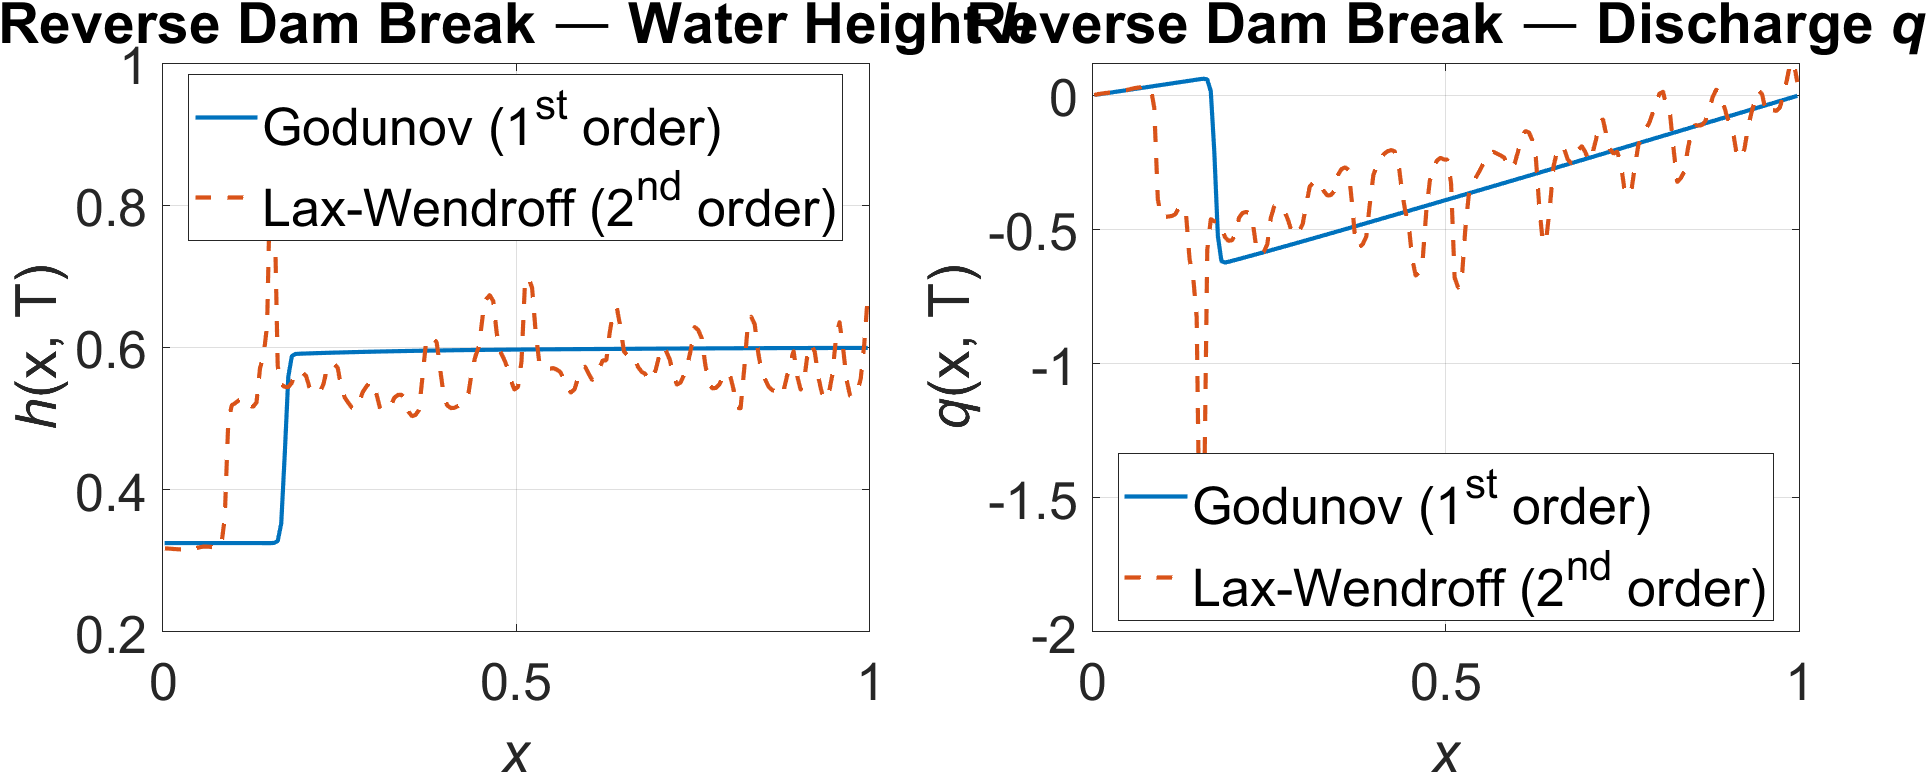
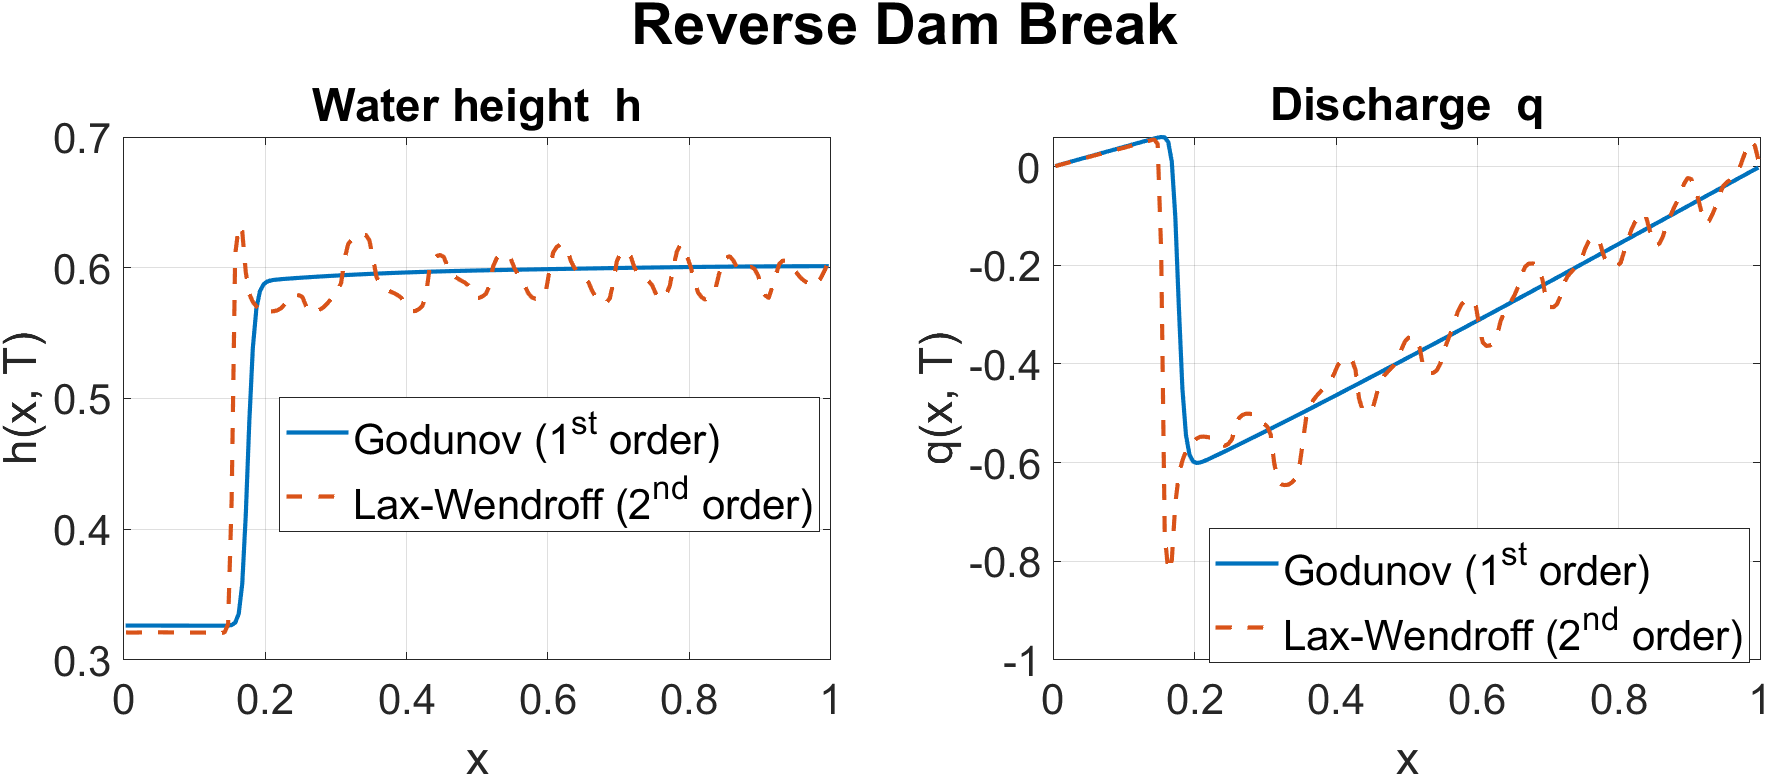
terzo output

diff --git a/Homeworks/HW3/Codes/RunMainFVM.m b/Homeworks/HW3/Codes/RunMainFVM.m
@@ -15,16 +15,17 @@ clear; close all; clc;
 addpath Solvers
 
 %==========================================================================
-% OUTPUT DIRECTORY — images go directly into the report tree
+% OUTPUT DIRECTORY
 %==========================================================================
 out_dir = 'Output';
 if ~exist(out_dir, 'dir'), mkdir(out_dir); end
 
 %==========================================================================
-% GLOBAL STYLE — edit ONLY here, never inside solver files
+% GLOBAL STYLE — edit ONLY here
 %==========================================================================
-fs  = 25;           % axis/tick/legend font size
-fst = 30;           % title font size
+fs  = 20;           % axis/tick/legend font size
+fst = 28;           % sgtitle font size
+fsb = 22;           % subplot title font size
 lw  = 2;            % line width
 c1  = '#0072BD';    % Godunov       (blue)
 c2  = '#D95319';    % Lax-Wendroff  (orange)
@@ -35,8 +36,7 @@ c2  = '#D95319';    % Lax-Wendroff  (orange)
 Tests = DataTest();
 
 %==========================================================================
-% FIGURE NAMES — follow LaTeX image convention X.Y_Description.png
-% X = section number within Chapter 3,  Y = subfigure index (0 = single)
+% FIGURE NAMES AND TITLES
 %==========================================================================
 fig_names   = {'3.1_DamBreak', '3.2_RevDamBreak', '3.3_Shock'};
 test_titles = {'Dam Break',    'Reverse Dam Break', 'Stationary Shock'};
@@ -48,6 +48,7 @@ for k = 1 : numel(Tests)
 
     Data = Tests{k};
 
+
     fprintf('\n========== Running test %d/%d: %s ==========\n', ...
             k, numel(Tests), Data.name);
 
@@ -58,10 +59,13 @@ for k = 1 : numel(Tests)
     Sol_LW = MainFVM(Data, 'laxwendroff');
 
     %----------------------------------------------------------------------
-    % Figure — two subplots side by side
+    % Figure
     %----------------------------------------------------------------------
     figure('Name', fig_names{k}, 'NumberTitle', 'off', ...
            'Units', 'normalized', 'Position', [0.05, 0.15, 0.88, 0.60]);
+
+    % Shared super-title for the whole figure
+    sgtitle(test_titles{k}, 'FontSize', fst, 'FontWeight', 'bold');
 
     % ---- Left panel: water height h(x, T) --------------------------------
     subplot(1, 2, 1);
@@ -69,10 +73,9 @@ for k = 1 : numel(Tests)
     plot(Sol_G.x,  Sol_G.h,  '-',  'Color', c1, 'LineWidth', lw); hold on;
     plot(Sol_LW.x, Sol_LW.h, '--', 'Color', c2, 'LineWidth', lw);
 
-    xlabel('\itx',                        'FontSize', fs);
-    ylabel('\ith\rm(x, T)',               'FontSize', fs);
-    title([test_titles{k}, ' — Water Height \ith'], ...
-          'FontSize', fst, 'FontWeight', 'bold');
+    xlabel('x',         'FontSize', fs);
+    ylabel('h(x, T)',   'FontSize', fs);
+    title('Water height  h', 'FontSize', fsb, 'FontWeight', 'bold');
     legend('Godunov (1^{st} order)', 'Lax-Wendroff (2^{nd} order)', ...
            'FontSize', fs, 'Location', 'best');
     grid on; box on;
@@ -84,10 +87,9 @@ for k = 1 : numel(Tests)
     plot(Sol_G.x,  Sol_G.q,  '-',  'Color', c1, 'LineWidth', lw); hold on;
     plot(Sol_LW.x, Sol_LW.q, '--', 'Color', c2, 'LineWidth', lw);
 
-    xlabel('\itx',                        'FontSize', fs);
-    ylabel('\itq\rm(x, T)',               'FontSize', fs);
-    title([test_titles{k}, ' — Discharge \itq'], ...
-          'FontSize', fst, 'FontWeight', 'bold');
+    xlabel('x',         'FontSize', fs);
+    ylabel('q(x, T)',   'FontSize', fs);
+    title('Discharge  q', 'FontSize', fsb, 'FontWeight', 'bold');
     legend('Godunov (1^{st} order)', 'Lax-Wendroff (2^{nd} order)', ...
            'FontSize', fs, 'Location', 'best');
     grid on; box on;
@@ -101,3 +103,5 @@ for k = 1 : numel(Tests)
     fprintf('Saved: %s.png\n', fig_names{k});
 
 end
+
+fprintf('\nAll plots generated and saved to: %s\n', out_dir);

diff --git a/Homeworks/HW3/Codes/DataTest.m b/Homeworks/HW3/Codes/DataTest.m
@@ -16,7 +16,7 @@ function Tests = DataTest()
 L   = 1;       % domain length
 g   = 9.81;    % gravitational acceleration [m/s^2]
 M   = 200;     % number of FVM cells
-CFL = 0.9;     % CFL number
+CFL = 0.5;     % CFL number
 T   = 1.0;     % final time [s]
 
 %==========================================================================
